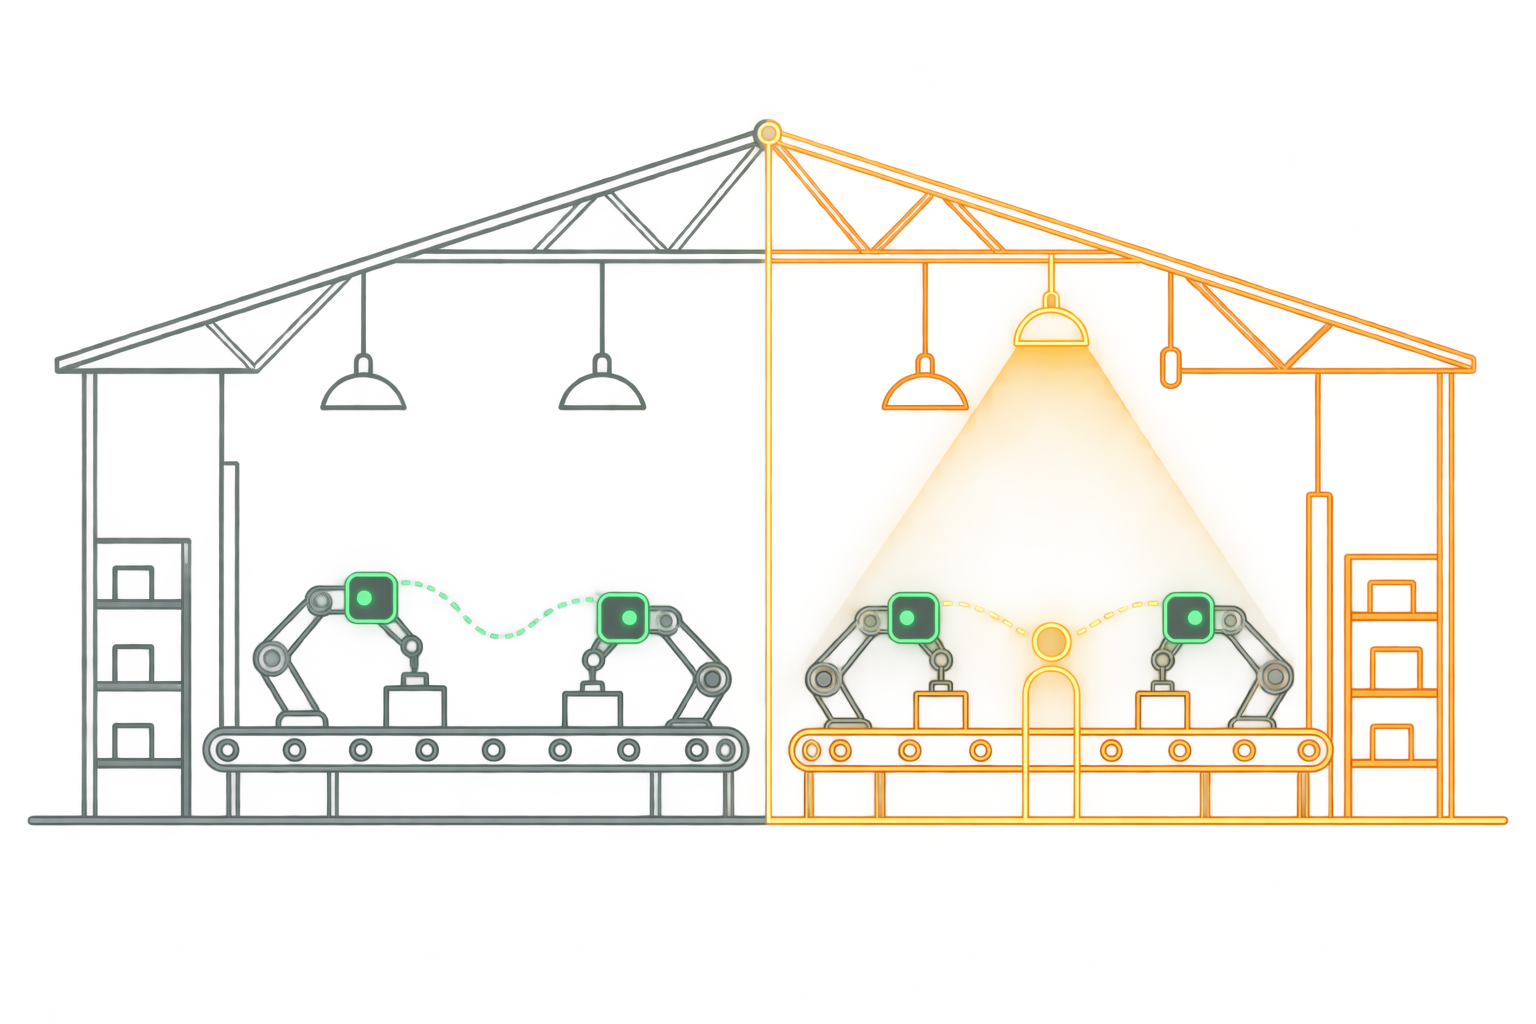
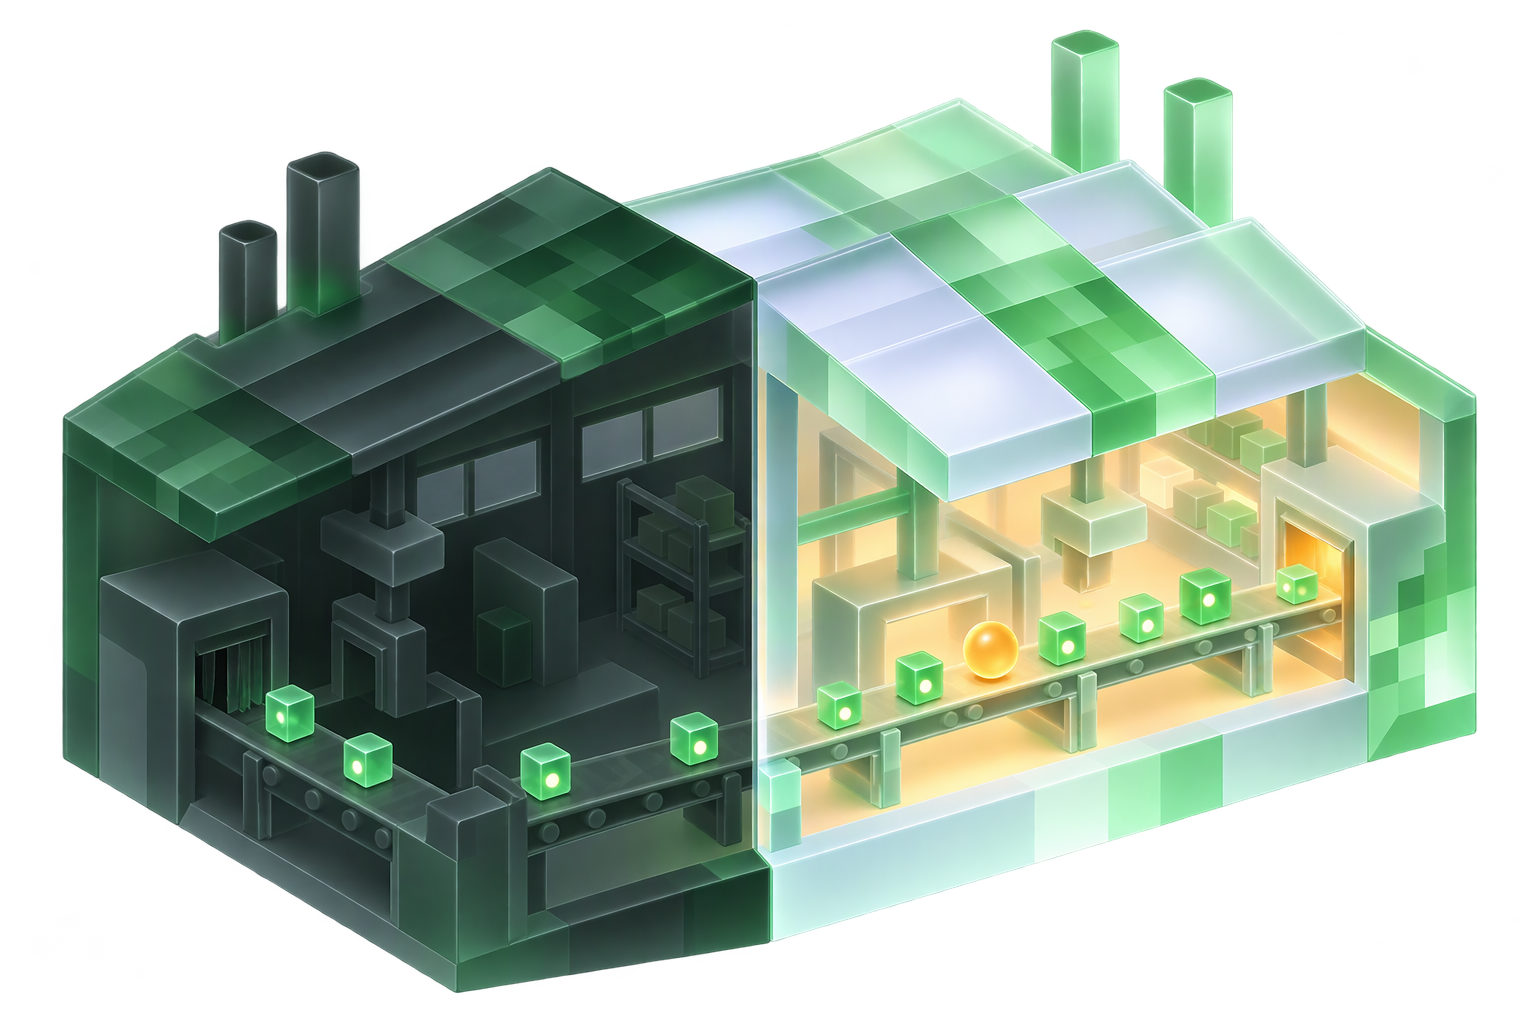
Present: restyle Vectors as frosted glass-block images
Replace the 15 luminous line-art images with glossy frosted glass-block
renders (mint-to-emerald glass, pixel-mosaic faces). Building and dimmer
were redrawn from the LEGO renders so zone and bay overlays still align.
Drop the light-theme filter, which the glass no longer needs, and update
alt texts, comments and DESIGN.md.

Copilot-Session: 634a2860-b946-4d6d-b2a2-bdf38c8ec1af

diff --git a/src/styles/present.css b/src/styles/present.css
@@ -285,16 +285,12 @@
 	display: none;
 }
 /*
- * Vectors (VectorArt.astro): luminous line-art images on a transparent ground, laid over the
- * same 3:2 box as the renders. The glow is tuned for dark pages; on light pages a little
- * extra contrast keeps the pale strokes readable.
+ * Vectors (VectorArt.astro): frosted glass-block images on a transparent ground, laid over the
+ * same 3:2 box as the renders. Solid enough to read on dark and light pages without a filter.
  */
 .pz-imgbox > .pz-vec {
 	position: absolute;
 	inset: 0;
-}
-.pz-root[data-theme='light'] .pz-vec {
-	filter: saturate(1.25) contrast(1.15) brightness(0.9);
 }
 
 /* ---------- Copy ---------- */

diff --git a/DESIGN.md b/DESIGN.md
@@ -149,7 +149,7 @@ Scene tokens are drawn on top of the LEGO renders, so they don't change with the
 - The building is the map. The cover is the factory cross-section with the engineering wing; pins open each zone. Moving from the building to a room zooms into that room's spot on the building (WAAPI, transform and opacity only) and back out again. Other moves pan 3%. Reduced motion gets a 160ms fade.
 - Rooms are LEGO renders in the same style as the building, transparent cutouts on a soft zone-coloured pool of light. Light follows people (see Imagery).
 - Two audience controls, switchable mid-talk from the toolbar (an **Audience** popover below `44rem`):
-  - **Style:** **Vectors** (default) or **Blocks**. Vectors are generated luminous line-art images in `src/assets/present/vec/` (transparent 1536×1024, rendered by `src/components/present/VectorArt.astro`): thin glowing strokes on a transparent ground, no fills, no text. People are amber discs, agents are green modules with one dot, and the palette is the zone colours plus slate. The building and dimmer were redrawn from their renders, so zone and bay overlays, pins and the zoom still line up. On light pages a CSS filter adds contrast. Blocks are the LEGO renders. Both styles are lazy-loaded, so each never downloads the other's images. Use Vectors for engineering leaders, Blocks when the analogy helps (executives, workshops).
+  - **Style:** **Vectors** (default) or **Blocks**. Vectors are generated frosted glass-block images in `src/assets/present/vec/` (transparent 1536×1024, rendered by `src/components/present/VectorArt.astro`): glossy translucent 3D blocks with rounded edges, mint-to-emerald gradients with pale lavender, a few faces with a subtle pixel mosaic, no text. People are amber glass spheres, agents are green glass cubes with one dot; orange, blue and purple tint the glass only where a zone or pillar needs it. The building and dimmer were redrawn from their renders, so zone and bay overlays, pins and the zoom still line up. They read on dark and light pages without a filter. Blocks are the LEGO renders. Both styles are lazy-loaded, so each never downloads the other's images. Use Vectors for engineering leaders, Blocks when the analogy helps (executives, workshops).
   - **Level:** **L200** (default) or **L400**. L400 is the same slide with a deeper layer: `deepLede` plus the `deep` slot of `Room` replace the L200 lede and visual in place (`[data-tier]`). Deep content is specs and tables built from `src/data/`; product names are checked against the layer data at build time. L400 widens the copy column; slides marked `dense` take 62% and tighten on short stages so no slide ever scrolls.
   - State lives on `<html data-style data-tech>`. Precedence: URL (`?style=blocks&tech=l400`), then `localStorage` (`bff-present-style`, `bff-present-tech`), then the defaults. Non-default values stay in the URL, so a shared link opens in the same mode. Keys: **V** style, **L** level.
 - Zone colour drives the chrome: the progress bar, the chapter square and the minimap use `--z` from `[data-zone]` (HQ orange, floor green, foundations blue, engineering purple).
